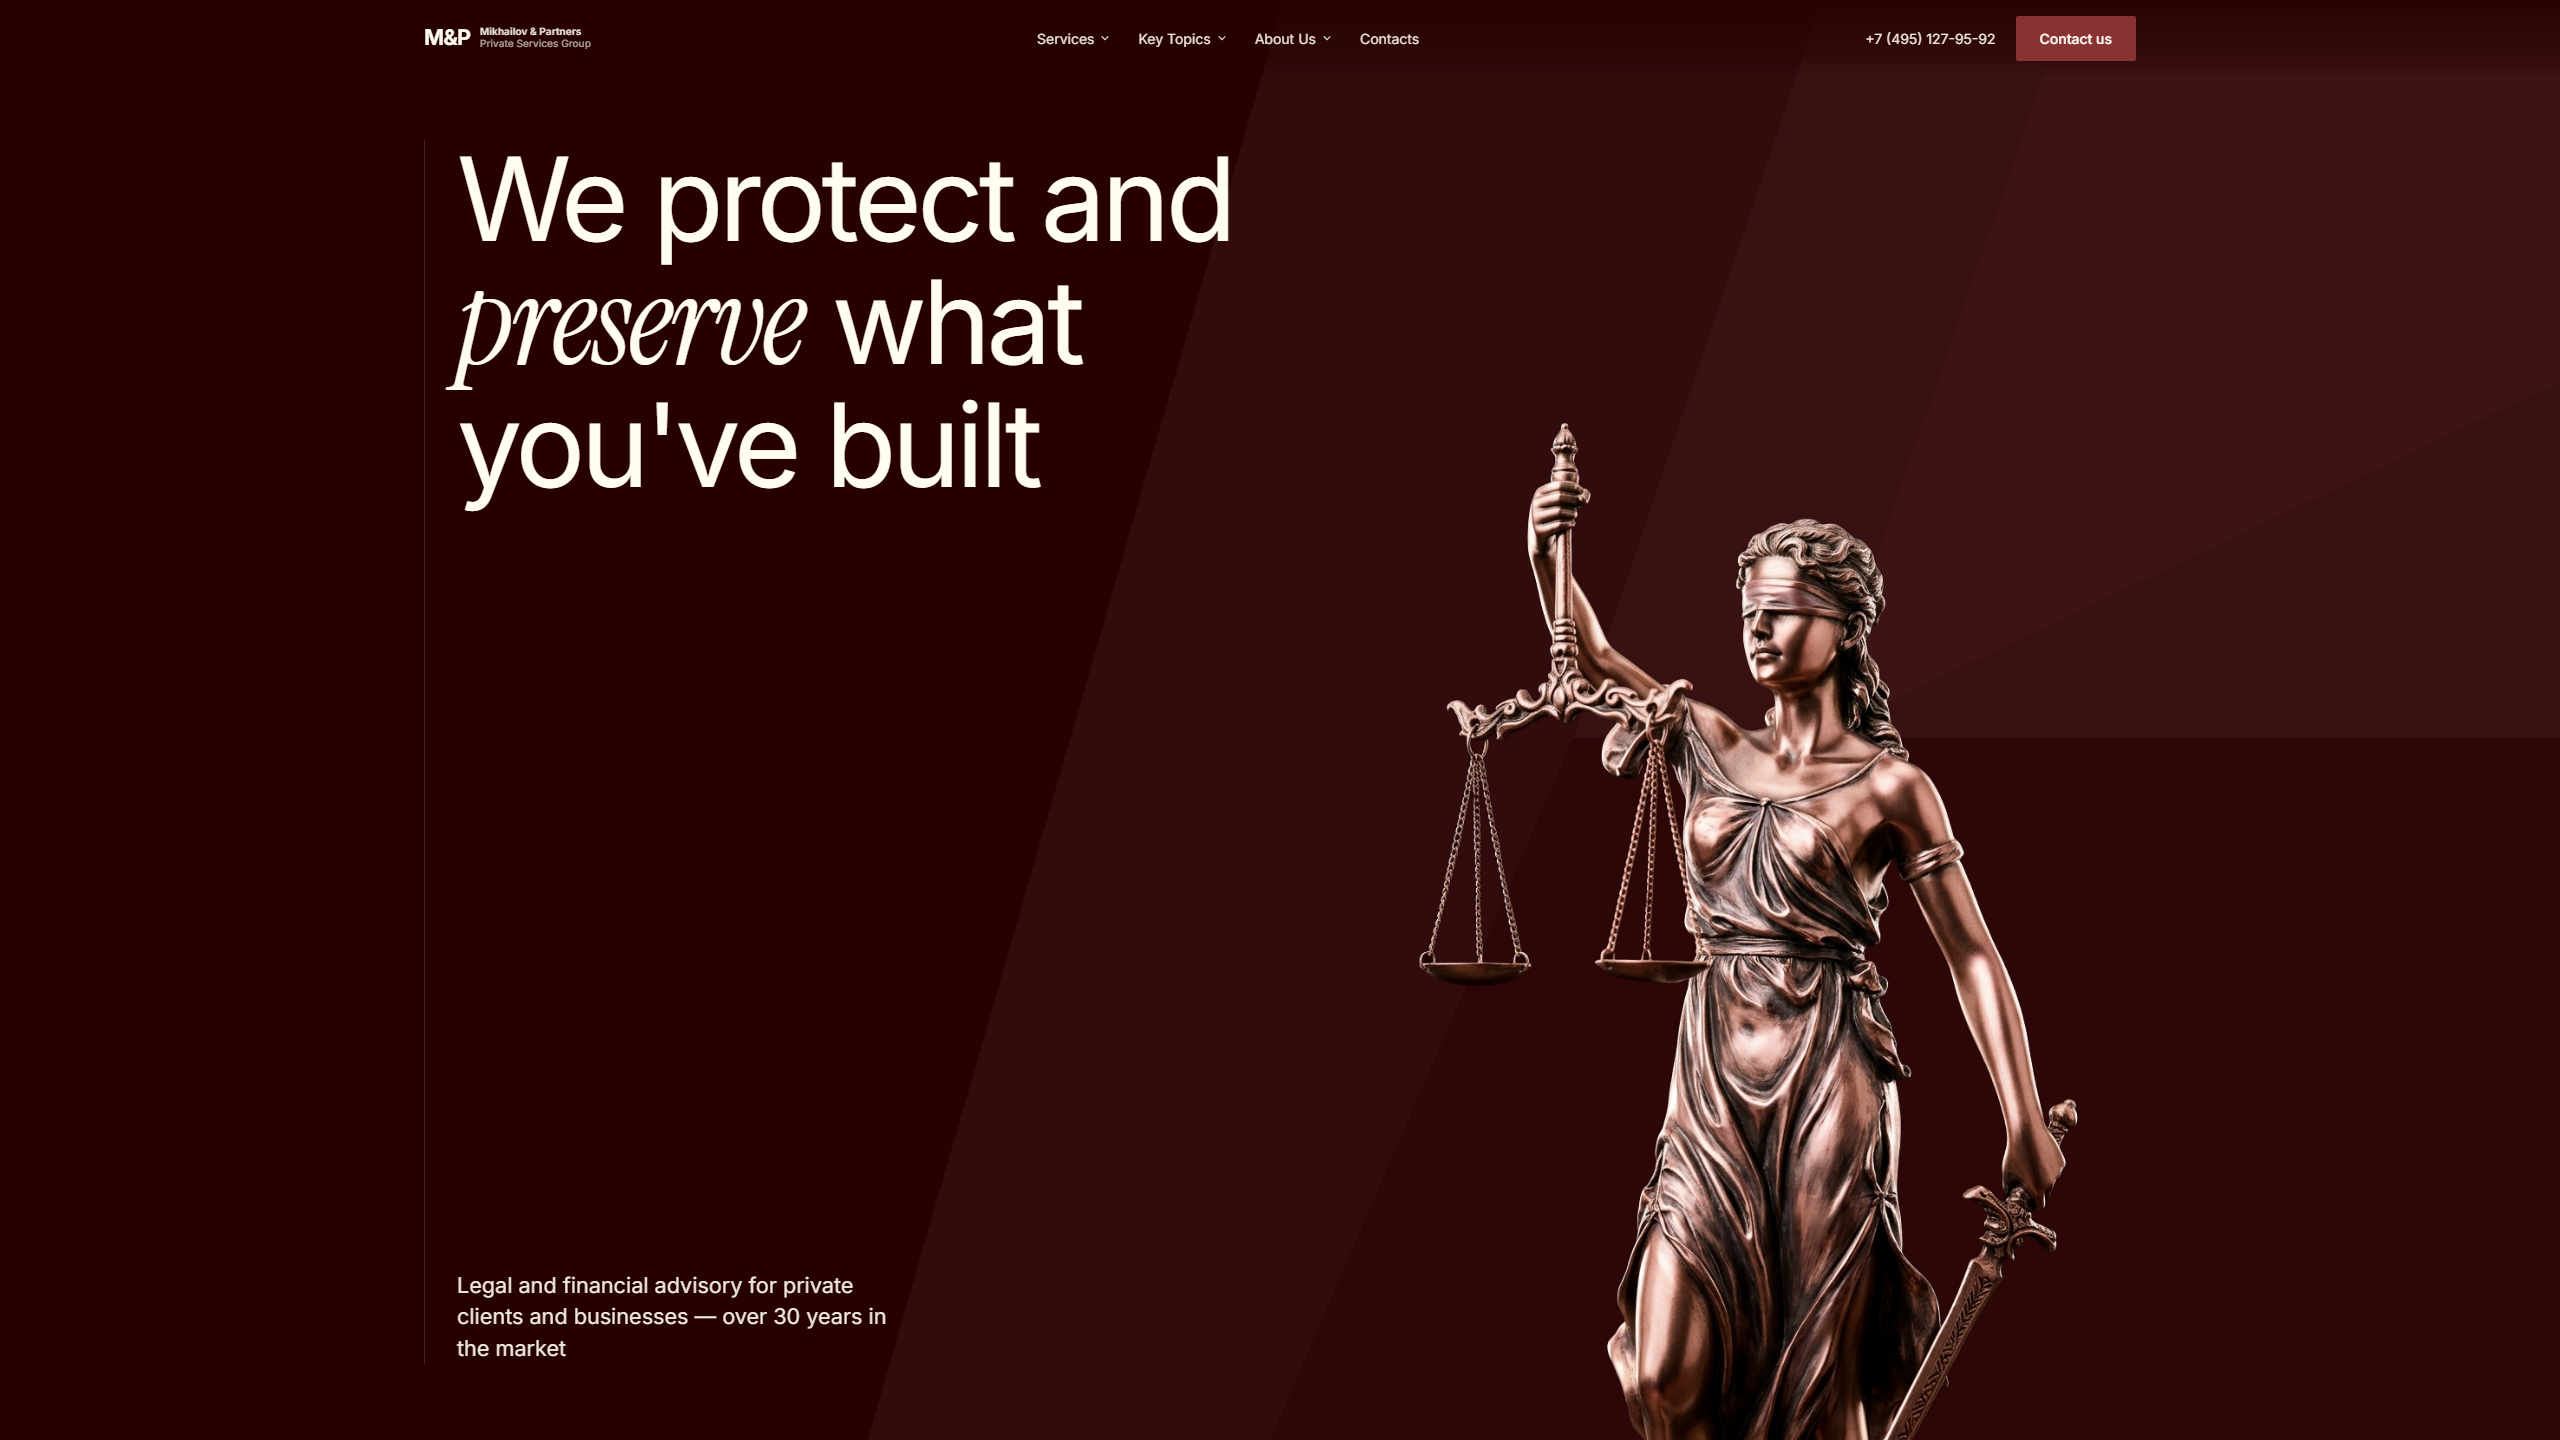
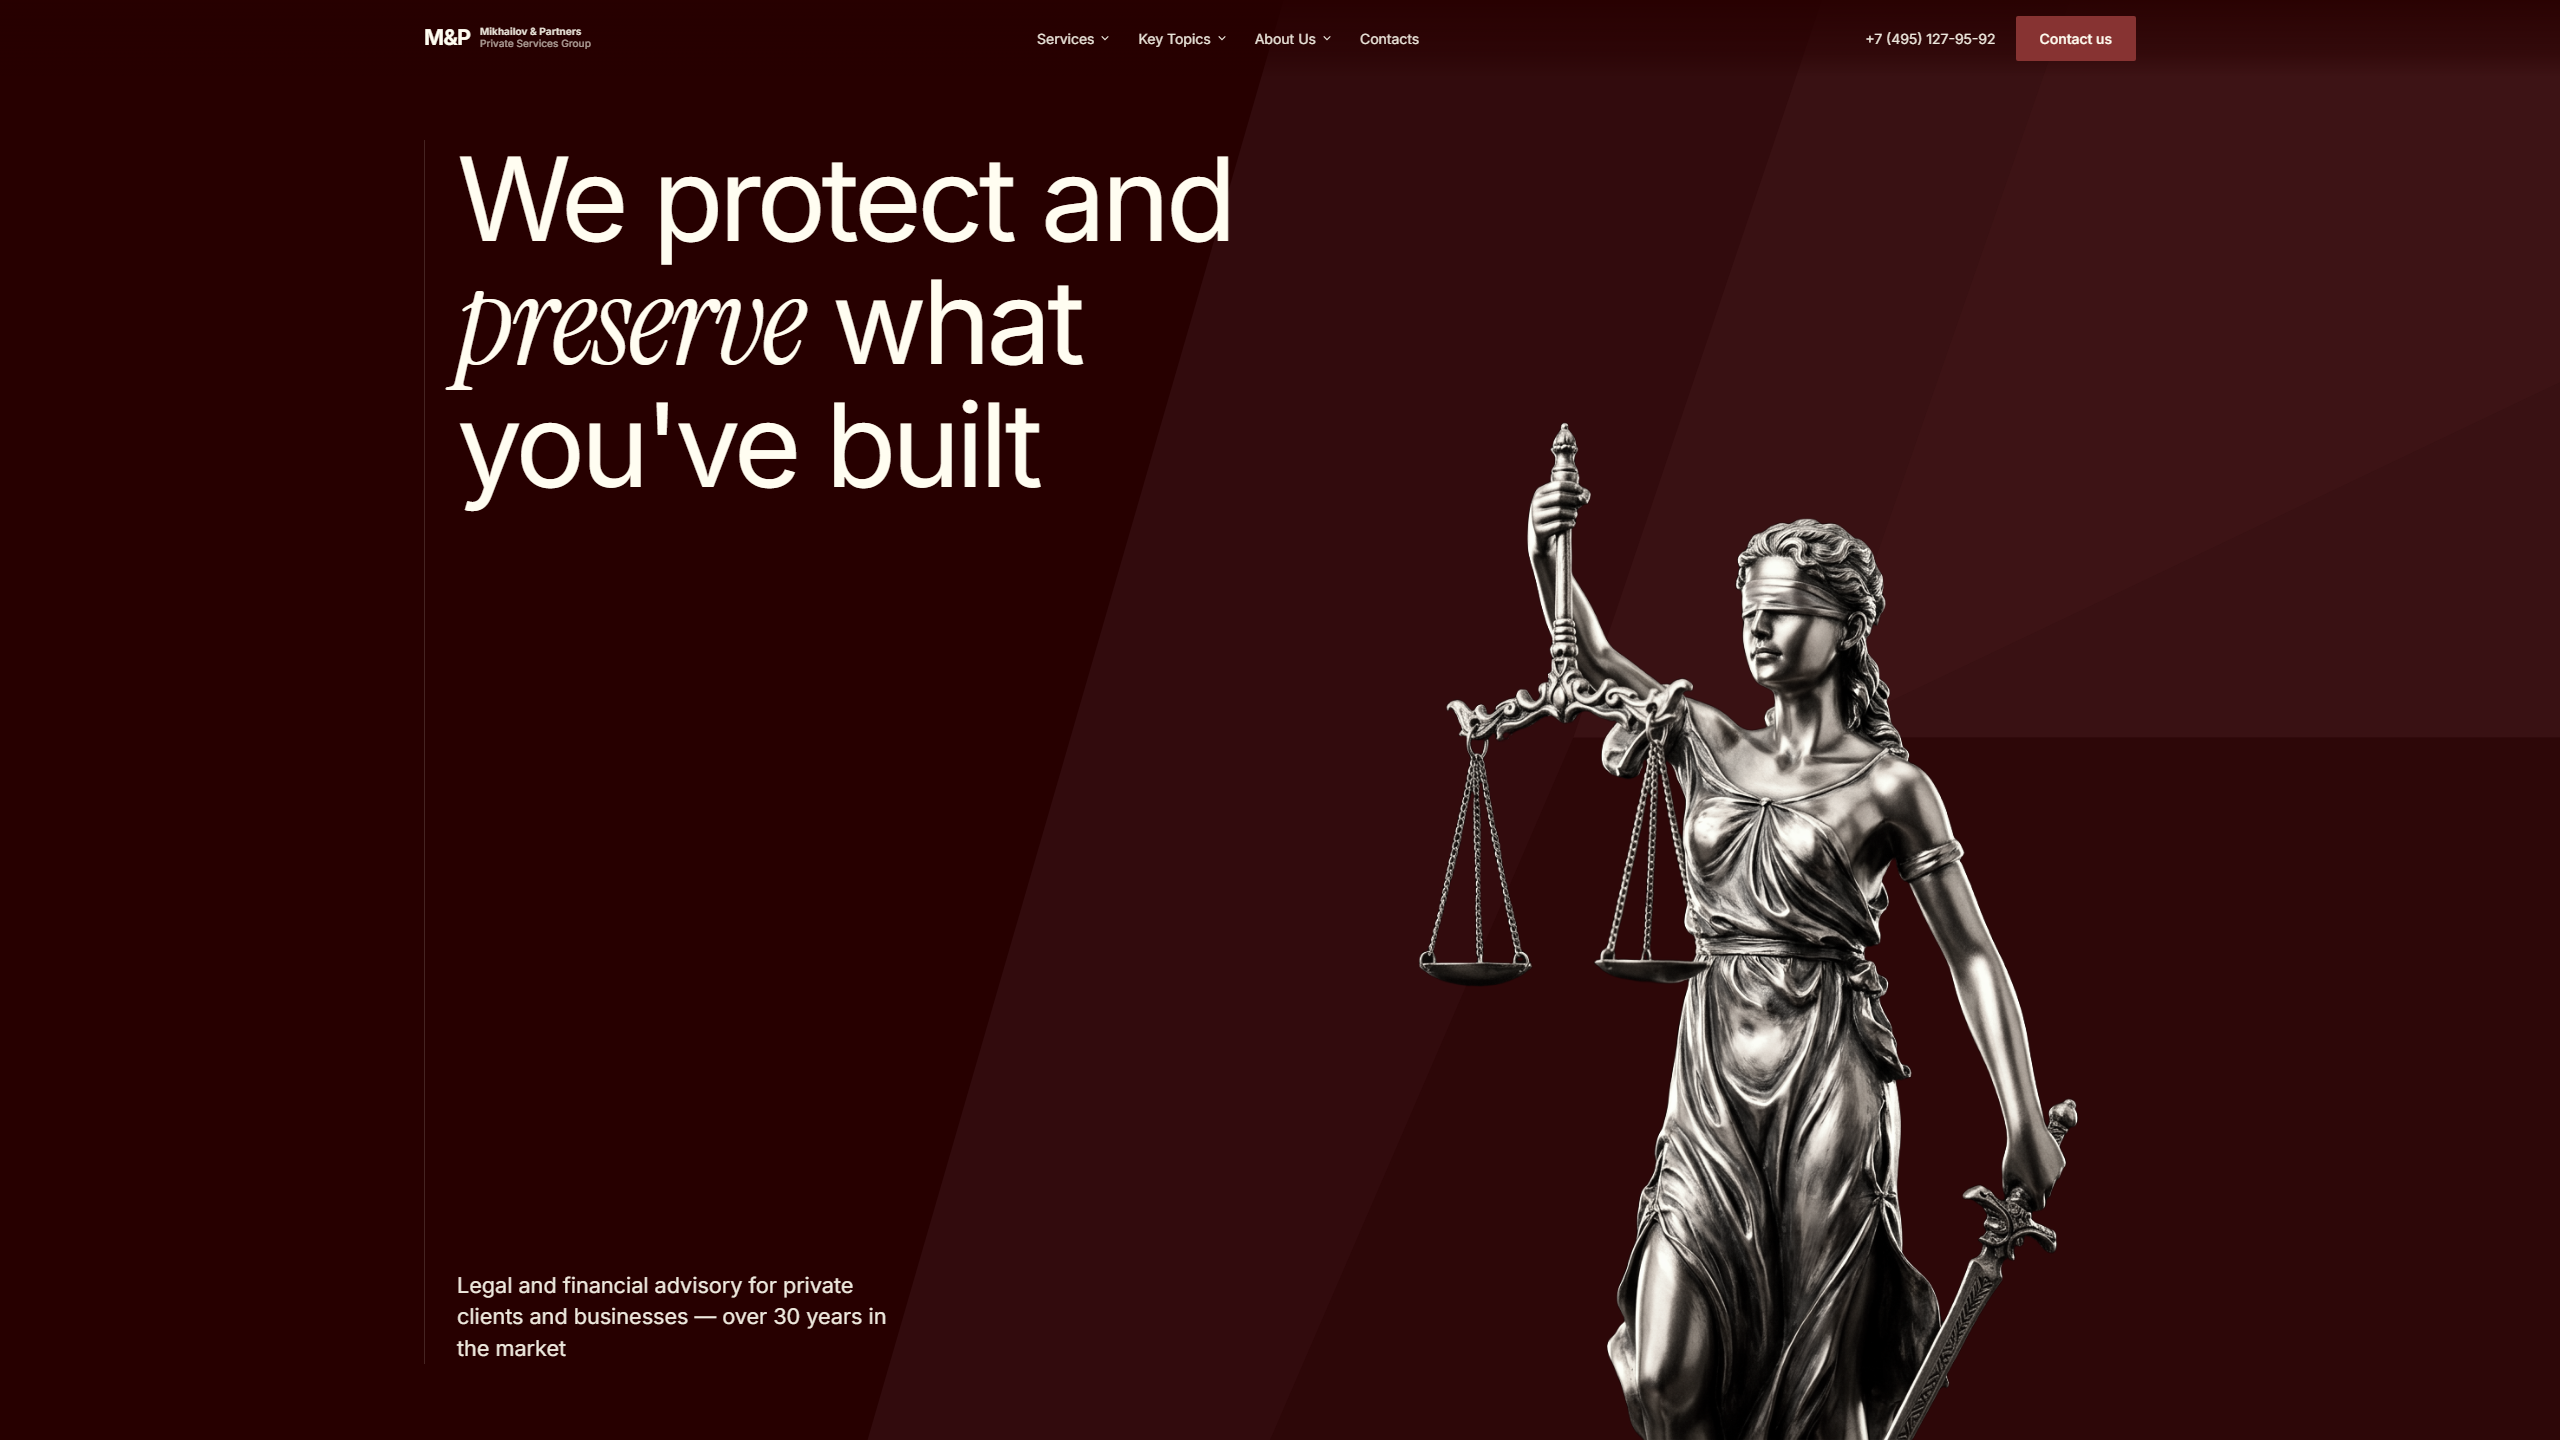
feat: add quality gate script and verification workflow
- Add quality-gate.mjs to enforce build, viewport, and review criteria
- Enhance compare-screenshots.mjs with section-based similarity scoring
- Update build, modify, and review workflow commands with audit gates
- Update legalWebsite hero styling and reference captures

diff --git a/projects/legalWebsite/src/components/Hero.css b/projects/legalWebsite/src/components/Hero.css
@@ -77,6 +77,7 @@
   max-width: 100%;
   object-fit: contain;
   object-position: bottom right;
+  filter: sepia(0.35) saturate(0.25) hue-rotate(12deg);
 }
 
 @media (max-width: 960px) {

diff --git a/.opencode/commands/modify-landing.md b/.opencode/commands/modify-landing.md
@@ -42,9 +42,14 @@ Clasifica la solicitud en uno de estos niveles para dimensionar el análisis:
 ### Reglas de delegación y fallback inteligente
 1. Lanza los análisis independientes en paralelo cuando sea posible, pasando únicamente el contexto concreto de la solicitud y los archivos afectados.
 2. Todos los especialistas trabajan en modo **solo lectura** (`edit: deny`, `write: deny`): devuelven hallazgos y recomendaciones; nunca editan archivos.
-3. **Resiliencia y Fallback Dinámico**:
-   - Antes de delegar a `opencode_2`, consulta `orchestrator_capabilities` y/o ejecuta el selector real de LandingFactory:
-     `node <LandingFactory>/scripts/resolve-model-fallback.mjs --agent <especialista> [--error-type <tipo>] [--exclude <modelos-fallidos>] --log-file docs/design/model-fallback-log.md`
+3. **Resiliencia y Orquestación Automática del Fallback (6 pasos)**:
+   - Protocolo determinista ante cualquier fallo de `opencode_2`:
+     1. Detectar el fallo (`transient`, `rate_limit`, `unavailable`, `capability`, `auth`).
+     2. Ejecutar `node <LandingFactory>/scripts/resolve-model-fallback.mjs --agent <especialista> --error-type <tipo> --exclude <modelos-fallidos> --log-file docs/design/model-fallback-log.md`.
+     3. Leer `selectedModel` y `action` de la salida JSON.
+     4. Volver a delegar `delegate_task` en `opencode_2` usando `selectedModel` (si `action` es `USE_FALLBACK` o `RETRY_PRIMARY`).
+     5. Confirmar que el subagente respondió correctamente.
+     6. Registrar el resultado final en `docs/design/model-fallback-log.md`.
    - Perfiles de capacidad:
      - **Perfil A (Visual / Multimodal)**: `visual-analyst`, `ui-ux-designer`, `asset-researcher`, `visual-qa`. Si la tarea requiere analizar imágenes/capturas, el sustituto **debe** admitir visión; nunca sustituyas por un modelo solo-texto.
      - **Perfil B (Planificación)**: `implementation-planner`.
@@ -86,7 +91,14 @@ Después de implementar:
    verificando `1440×900`, `768×1024` y `390×844`.
 3. Revisa errores de consola, errores de red (`status >= 400`), desbordamiento horizontal e interacciones afectadas.
 4. Lanza `@visual-qa` si el cambio tiene impacto visual significativo, y `@code-reviewer` si tiene impacto técnico, funcional o estructural (aplicando el sistema de fallback si hace falta).
-5. Si se detectan problemas, corrígelos y vuelve a verificar (máximo 3 rondas visuales por defecto). Nunca declares exitosa una prueba no ejecutada.
+5. **Cierre obligatorio del ciclo de auditoría tras correcciones**:
+   - **Hallazgo crítico/técnico** → repetir `@code-reviewer` después de corregir.
+   - **Hallazgo visual** → repetir `@visual-qa` y re-capturar Playwright después de corregir (máximo 3 rondas visuales).
+   - **Cambio estructural (Nivel 3)** → repetir ambos (`@visual-qa` y `@code-reviewer`).
+   - **Cambio trivial (Nivel 1)** → verificar únicamente las pruebas afectadas.
+6. **LandingFactory Quality Gate**:
+   Ejecuta `node <LandingFactory>/scripts/quality-gate.mjs` (indicando `--build`, `--a11y`, `--code-review` y `--compare-report` si aplica).
+   Distingue explícitamente entre `blockers`, `warnings` y `notApplicable`. **Nunca declares `PASS` o `READY` si un chequeo aplicable no se ejecutó o está en `BLOCKED`.**
 
 ## FASE 6 — ENTREGA
 

diff --git a/docs/workflow.md b/docs/workflow.md
@@ -32,8 +32,17 @@
 
 Ejecuta directamente las Fases 5, 6 y 7 sobre un proyecto ya implementado para auditar fidelidad visual y calidad técnica sin reconstruir desde cero.
 
-## Flujo de Fallback Inteligente de Modelos
+## Flujo de Fallback Inteligente de Modelos (6 Pasos)
 
-1. Ante fallo o indisponibilidad de un modelo principal en `opencode_2`, ejecutar `node scripts/resolve-model-fallback.mjs --agent <nombre> --error-type <tipo> --exclude <fallidos> --log-file docs/design/model-fallback-log.md`.
-2. El script consulta el catálogo real (`opencode models` + metadatos públicos de OpenRouter cuando hay red), filtra únicamente modelos gratuitos compatibles con el perfil del agente (exigiendo visión en Perfil A) y devuelve el siguiente candidato o detiene la subtarea si no hay alternativa gratuita compatible.
-3. Todo evento se registra en `docs/design/model-fallback-log.md` sin exponer claves ni tokens.
+1. Detectar el fallo (`transient`, `rate_limit`, `unavailable`, `capability`, `auth`).
+2. Ejecutar `node scripts/resolve-model-fallback.mjs --agent <nombre> --error-type <tipo> --exclude <fallidos> --log-file docs/design/model-fallback-log.md`.
+3. Leer `selectedModel` y `action` del JSON devuelto.
+4. Volver a delegar `delegate_task` en `opencode_2` con el modelo alternativo (o detener si no hay alternativa gratuita compatible).
+5. Confirmar que el subagente respondió correctamente.
+6. Registrar el resultado en `docs/design/model-fallback-log.md` sin exponer claves ni tokens.
+
+## LandingFactory Quality Gate y Cierre de Auditoría
+
+- **Regla de re-auditoría tras correcciones**: hallazgo crítico → repetir `@code-reviewer`; hallazgo visual → repetir `@visual-qa`; cambio estructural → repetir ambos; cambio trivial → verificar solo las pruebas afectadas.
+- **Similitud visual por sección**: `compare-screenshots.mjs --zones 3 --target-similarity 85 --out docs/design/compare-report.json`.
+- **Quality Gate (`scripts/quality-gate.mjs`)**: valida compilación/build, responsive sin overflow (`1440×900`, `768×1024`, `390×844`), consola/red limpias, revisión visual, revisión técnica y accesibilidad básica, separando `blockers`, `warnings` y `notApplicable`. Nunca declara `PASS` una prueba no ejecutada.

diff --git a/.opencode/commands/build-landing.md b/.opencode/commands/build-landing.md
@@ -69,15 +69,16 @@ Capturando mínimo:
 Registra errores de consola y overflow horizontal.
 
 ## FASE 6 — COMPARACIÓN Y CORRECCIÓN VISUAL
-Si existe herramienta de comparación, ejecuta `compare-screenshots.mjs` para generar diffs/métricas.
+Si existe herramienta de comparación, ejecuta `compare-screenshots.mjs --zones 3 --target-similarity 85 --out docs/design/compare-report.json` para medir similitud visual por sección y viewport.
 Lanza `@visual-qa` (cadena multimodal con fallback) con las capturas originales (`references/`) y las reales (`docs/design/captures/`).
 Guarda el informe en `docs/design/visual-qa.md`.
 Gemini Hydrogen corrige por prioridad: geometría → tamaños/posiciones → tipografía → imágenes/recortes → colores → espaciados → detalles.
-Realiza al menos 2 pasadas si hay diferencias materiales (máximo 3 iteraciones por defecto salvo que el usuario pida más).
+Realiza al menos 2 pasadas si hay diferencias materiales (máximo 3 iteraciones por defecto salvo que el usuario pida más) y repite `@visual-qa` tras corregir hallazgos visuales.
 
-## FASE 7 — AUDITORÍA TÉCNICA
-Lanza `@code-reviewer` (`opencode/deepseek-v4.1-flash-free`) en modo solo lectura sobre los archivos implementados y el log de consola.
-Gemini Hydrogen corrige los hallazgos críticos/altos.
+## FASE 7 — AUDITORÍA TÉCNICA Y QUALITY GATE
+Lanza `@code-reviewer` (`opencode/deepseek-v4.1-flash-free` con protocolo de fallback de 6 pasos) en modo solo lectura sobre los archivos implementados y el log de consola.
+Si `@code-reviewer` reporta hallazgos críticos/altos, Gemini Hydrogen los corrige y **repite `@code-reviewer`** para cerrar el ciclo.
+Antes de entregar, ejecuta `node <LandingFactory>/scripts/quality-gate.mjs --build <pass|fail|na> --a11y <pass|fail|na> --code-review <pass|fail|na> --compare-report docs/design/compare-report.json`. Nunca declares `READY` si el Quality Gate devuelve `BLOCKED` o si faltan pruebas por ejecutar.
 
 ## FASE 8 — ENTREGA
 Presenta al usuario:

diff --git a/.opencode/commands/review-landing.md b/.opencode/commands/review-landing.md
@@ -17,6 +17,6 @@ Ejecuta una revisión completa sobre el proyecto actual sin reiniciar la impleme
 3. **Auditoría paralela (Solo lectura — con fallback obligatorio si un modelo falla o no está disponible)**:
    - Lanza `@visual-qa` (cadena multimodal: `openrouter/google/gemma-4-31b-it:free` → `openrouter/google/gemma-4-26b-a4b-it:free` → `openrouter/nvidia/nemotron-3-nano-omni-30b-a3b-reasoning:free` → `openrouter/openrouter/free` → `antigravity/gemini-3.8-flash`) comparando `references/` vs `docs/design/captures/`.
    - Lanza `@code-reviewer` (`opencode/deepseek-v4.1-flash-free` → `opencode/flint-40b-free` → `openrouter/openrouter/free` → `antigravity/gemini-3.8-flash`) revisando calidad, A11y, SEO, rendimiento, consola y responsive.
-4. **Consolidación**:
+4. **Consolidación y Quality Gate**:
    - Guarda el resultado visual en `docs/design/visual-qa.md` y presenta ambos informes priorizados al usuario.
-   - Si el usuario pidió corregir automáticamente o estamos en sesión de Gemini Hydrogen con autorización para corregir, aplica las correcciones priorizadas y vuelve a capturar para verificar.
+   - Si se aplican correcciones, cierra el ciclo repitiendo el revisor correspondiente (`@visual-qa` para hallazgos visuales, `@code-reviewer` para hallazgos técnicos críticos) y ejecuta `node <LandingFactory>/scripts/quality-gate.mjs` para emitir el veredicto (`READY`, `READY_WITH_WARNINGS` o `BLOCKED`).
